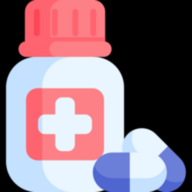
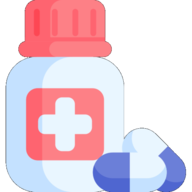
Add files via upload

diff --git a/service-worker.js b/service-worker.js
@@ -1,5 +1,5 @@
-const STATIC_CACHE = 'dosecerta-static-v2';
-const RUNTIME_CACHE = 'dosecerta-runtime-v2';
+const STATIC_CACHE = 'dosecerta-static-v3';
+const RUNTIME_CACHE = 'dosecerta-runtime-v3';
 
 const LOCAL_ASSETS = [
     './',
